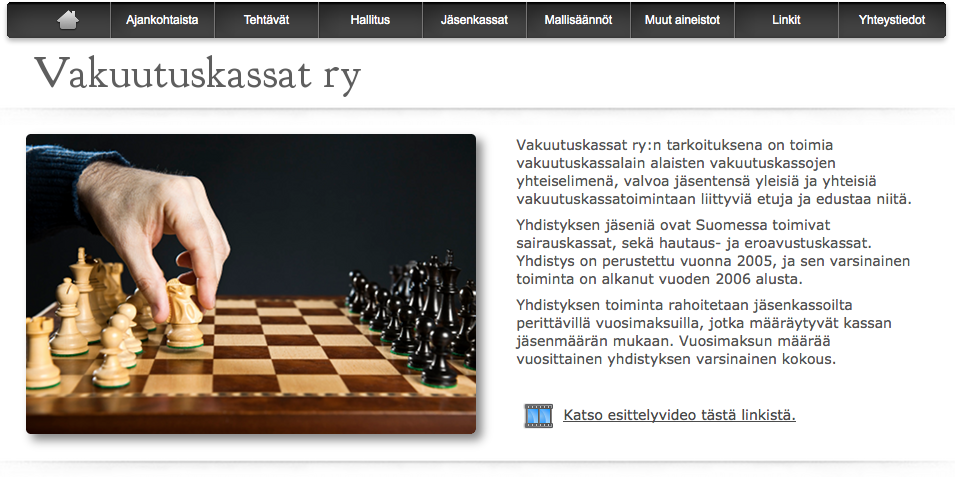
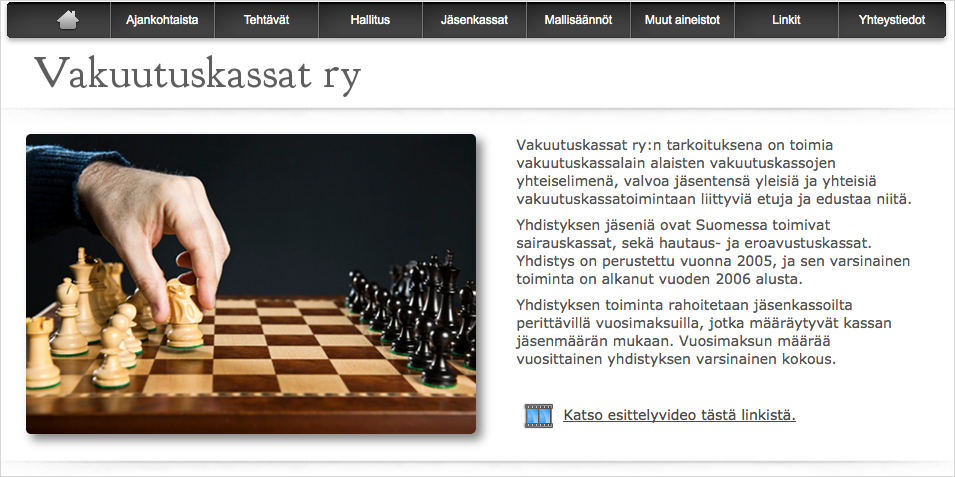
Muutoksia/lisäyksiä.

Changed region(s): [[0.0, 0.9979, 1.0, 1.0], [0.9717, 0.0, 1.0, 0.0294], [0.0, 0.0, 0.0304, 0.0294]]

diff --git a/common/css/nmdoc01.css b/common/css/nmdoc01.css
@@ -3,7 +3,7 @@ body{font-family:"Lato",Arial,Helvetica,sans-serif;font-size:13px;font-weight:40
 body > *:first-child{margin-top:0 !important}
 body > *:last-child{margin-bottom:0 !important}
 a{color:#4183c4}
-h1,h2,h3,h4,h5,h6{margin:20px 0 10px;padding:0;font-family:"Lato",Arial,Helvetica,sans-serif;font-weight:bold;-webkit-font-smoothing:antialiased;cursor:text;position:relative;clear:both}
+h1,h2,h3,h4,h5,h6{margin:20px 0 10px 0;padding:0;font-family:"Lato",Arial,Helvetica,sans-serif;font-weight:bold;-webkit-font-smoothing:antialiased;cursor:text;position:relative;clear:both}
 h1:hover a.anchor,h2:hover a.anchor,h3:hover a.anchor,h4:hover a.anchor,h5:hover a.anchor,h6:hover a.anchor{text-decoration:none}
 h1 tt,h1 code{font-size:inherit}
 h2 tt,h2 code{font-size:inherit}
@@ -11,7 +11,7 @@ h3 tt,h3 code{font-size:inherit}
 h4 tt,h4 code{font-size:inherit}
 h5 tt,h5 code{font-size:inherit}
 h6 tt,h6 code{font-size:inherit}
-h1{font-size:24px;color:#006400;padding-left:30px;border-bottom:1px solid #ccc;background:transparent url("img/folder_page_white.png") no-repeat left center}
+h1{font-size:24px;color:#006400;margin-top:10px;padding-left:30px;border-bottom:1px solid #ccc;background:transparent url("img/folder_page_white.png") no-repeat left center}
 h2{font-size:18px;border-bottom:1px solid #ccc;padding-left:27px;background:transparent url("img/note.png") no-repeat center left}
 h3{font-size:18px}
 h4{font-size:16px}

diff --git a/common/css/nmdoc03.css b/common/css/nmdoc03.css
@@ -1,7 +1,7 @@
 body{margin:0;background-color:#f4f4f4}
-#header{height:50px;margin:0 0 2px 0;padding:2px 0 0 10px;font-family:'Geneva',Arial,helvetica,sans-serif;font-size:18px;font-weight:300;color:#fff;background:#4f4f4f url("img/hdr_bg_2.png") repeat-x top left}
-#header #netmiller{float:left;margin:12px 0 0 5px;padding:5px 0 0 40px;background:transparent url("img/folder_32.png") no-repeat top left}
-#header #customer{float:left;margin:15px 0 0 120px}
+#header{height:50px;margin:0 0 1px 0;padding:2px 0 0 10px;font-family:'Geneva',Arial,helvetica,sans-serif;font-size:18px;font-weight:300;color:#fff;background:transparent url("img/bg5.png") repeat-x top left}
+#header #netmiller{float:left;margin:5px 0 0 5px;padding:5px 0 0 40px;background:transparent url("img/folder_32.png") no-repeat top left}
+#header #customer{float:left;margin:5px 0 0 120px;padding:5px 0 0 0}
 #footer{float:left;min-height:10px;background-color:#fff}
 #wrapper{position:relative;width:960px;margin:0 auto !important;margin-top:0}
 #right-bg{float:right;background:#fff;width:700px;border-left:1px solid #d3d3d3}

diff --git a/vkry/index.html b/vkry/index.html
@@ -39,10 +39,10 @@
                     <div id="nappulat">
 
                         <button type="button" class="menu-expand btn btn-default btn-xs">
-                            Expand <span class="glyphicon glyphicon-save"></span>
+                            Näytä <span class="glyphicon glyphicon-save"></span>
                         </button>
                         <button type="button" class="menu-collapse btn btn-default btn-xs">
-                            Collapse <span class="glyphicon glyphicon-open"></span>
+                            Piilota <span class="glyphicon glyphicon-open"></span>
                         </button>
                         <!-- button class="btn btn-info">Expand All</button -->
                         <!-- button class="btn btn-warning">Collapse All</button -->

diff --git a/vkry/pages/etusivu.md b/vkry/pages/etusivu.md
@@ -4,7 +4,7 @@ Tämä sivusto on tarkoitettu __Vakuutuskassat ry:n www-sivujen ylläpidon ohjei
 
 ----
 
-<figure class="fig-n" style="margin:25px;width:560px;">
+<figure class="fig-n border" style="margin:25px;width:560px">
 ![1][]
 <figcaption>Kuva01: ruutumalli sivuston alusta</figcaption>
 </figure>
